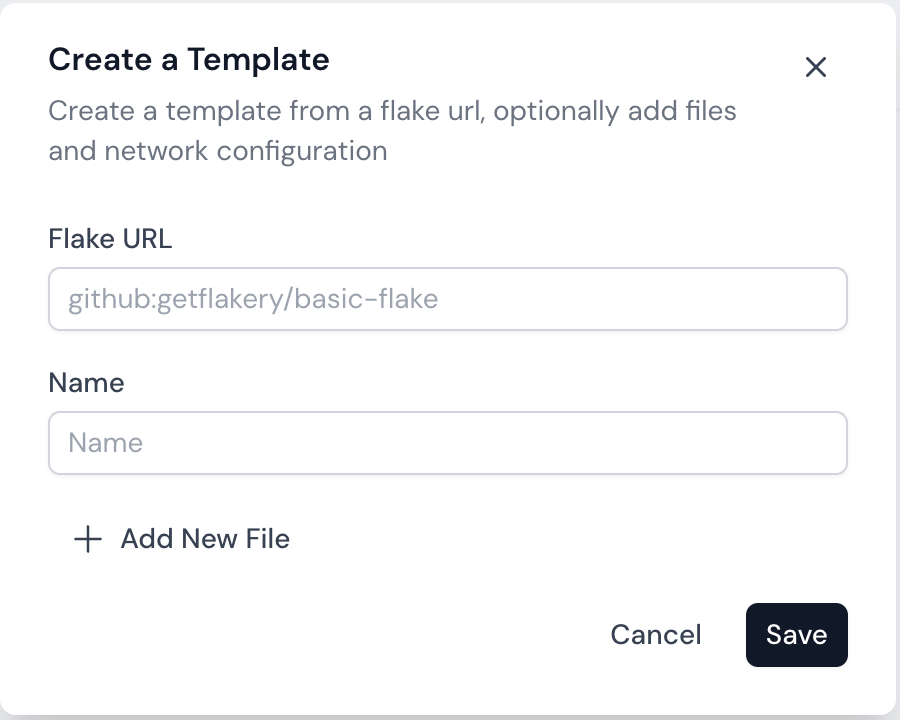
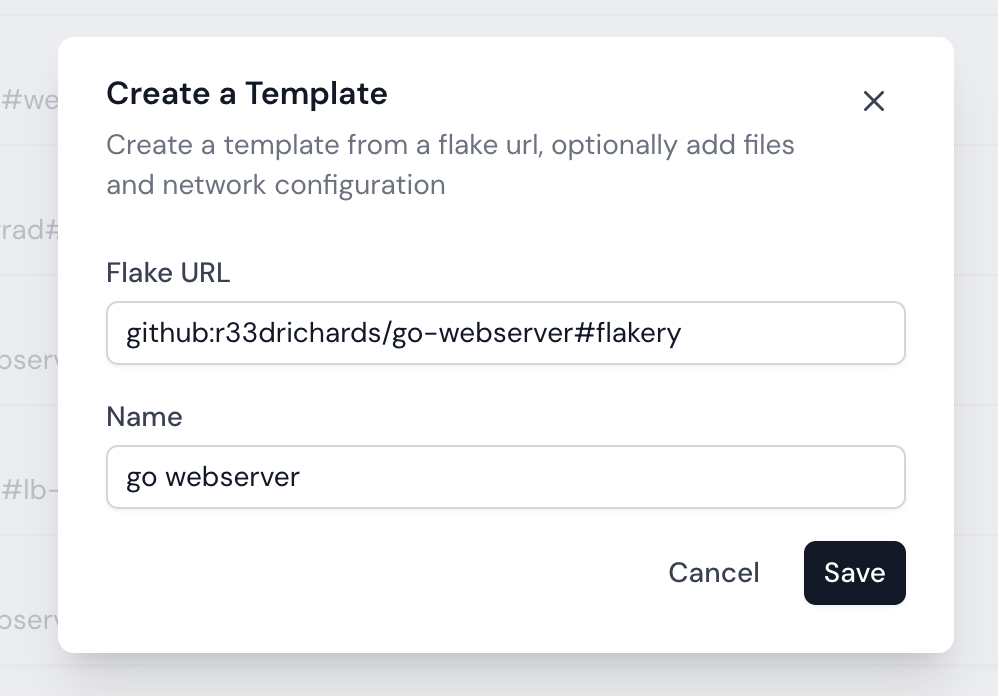
docs

diff --git a/content/documentation/1.quick-start.md b/content/documentation/1.quick-start.md
@@ -2,101 +2,13 @@
 
 Flakery creates templates and deployments for your nixos flakes. You can use flakery to create deployments of a nixos flake, seeded with a file system. These files are encrypted at rest and can be decrypted on demand. 
 
-## Prerequisites
+This tutorial will cover deploying a [simple go hello world webserver](https://github.com/r33drichards/go-webserver) on Flakery. It will also cover optionally configuring tailscale to allow you to access your server from anywhere.
 
-In order to use flakery, you will need to have the following installed:
-
-- [Nix](https://nixos.org/download.html)
-- [Nix Flakes](https://nixos.wiki/wiki/Flakes)
-- [OpenSSH](https://www.openssh.com/)
-- [Git](https://git-scm.com/)
-
-## Create your project directory and initialize a flake
-
-To create a new flake, you can use the `nix flake init` command. This will create a new directory with a `flake.nix` file and a `hello.nix` file.
-
-```shell
-mkdir hello-flakery
-cd hello-flakery
-nix flake init -t github:getflakery/flakes#default
-```
-
-## Add your ssh public key to the flake
-
-If you don't already have an ssh key, you can generate one with the following command:
-
-```shell
-ssh-keygen 
-```
-
-this will generate a new ssh key in your `~/.ssh` directory. You can then add this key to your flake by editing the `hello.nix` file 
-
-```nix{26,27}
-{ config, pkgs, ... }:
-
-{
-
-  # Set your time zone.
-  time.timeZone = "America/Los_Angeles";
+### Create your Template using the Flake
 
 
-  system.stateVersion = "23.05"; 
-  nix.settings.experimental-features = [ "nix-command" "flakes" ];
+Create a new template using the flake you want to deploy. In this case, we will use `github:r33drichards/go-webserver#flakery`.
 
-
-  users.users.alice = {
-    isNormalUser = true;
-    extraGroups = [ "wheel" ]; # Enable ‘sudo’ for the user.
-    packages = with pkgs; [ ];
-  };
-  services.openssh = {
-    enable = true;
-    # require public key authentication for better security
-    settings.PasswordAuthentication = false;
-    settings.KbdInteractiveAuthentication = false;
-    #settings.PermitRootLogin = "yes";
-  };
-  users.users."alice".openssh.authorizedKeys.keys = [
-    # replace with your ssh key # [!code highlight]
-    "ssh-ed25519 NOTAREALKEYBUTTHISISWHEREYOURSSHOULDBEdslkfjsoi3cjnefoODIUFNI0JDNCKL+" # [!code highlight]
-  ];
-
-}
-```
-
-
-## Create a git repository and push your flake
-
-Initialize a git repository and create an initial commit. 
-
-```shell
-git init
-git add .
-git commit -m "initial commit"
-```
-
-Create a [new repository on Github](https://github.com/new) and push your flake to the repository. 
-
-```shell
-git branch -M main
-git remote add origin git@github.com:$YOUR_USERNAME/hello-flakery.git
-git push -u origin main
-```
-
-::callout{icon="i-heroicons-light-bulb"}
-Replace `$YOUR_USERNAME` with your Github username.
-::
-
-## Deploy your flake on Flakery
-
-### Create your Template 
-
-
-To deploy your flake on Flakery, you will need to create a new deployment. You can do this by visiting the <a href='/dashboard/templates/' target='_blank'>Templates page</a>, selecting the `Create New Template` button and adding your flake to the input field. The url should look something like this: `github:$YOUR_USERNAME/hello-flakery#default`.
-
-::callout{icon="i-heroicons-light-bulb"}
-Replace `$YOUR_USERNAME` with your Github username.
-::
 
 <img srcset="/docs/image.png 100w" sizes="50px" src="image.png"/>
 
